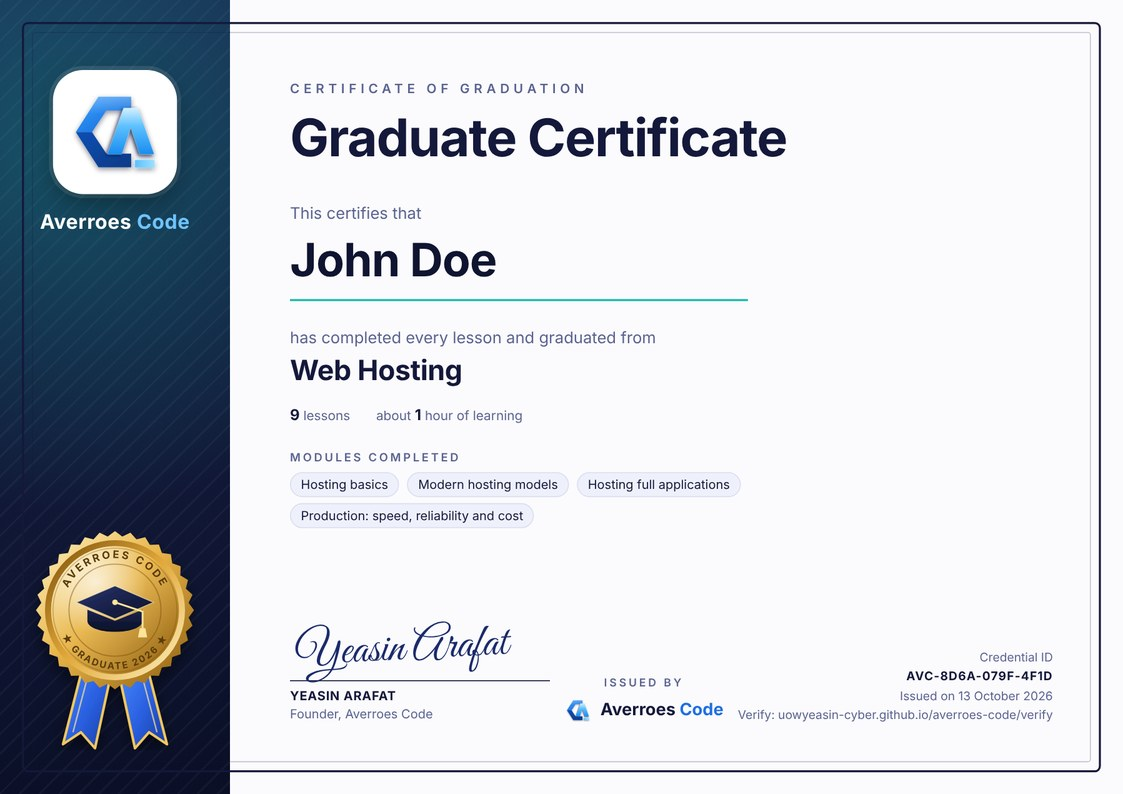
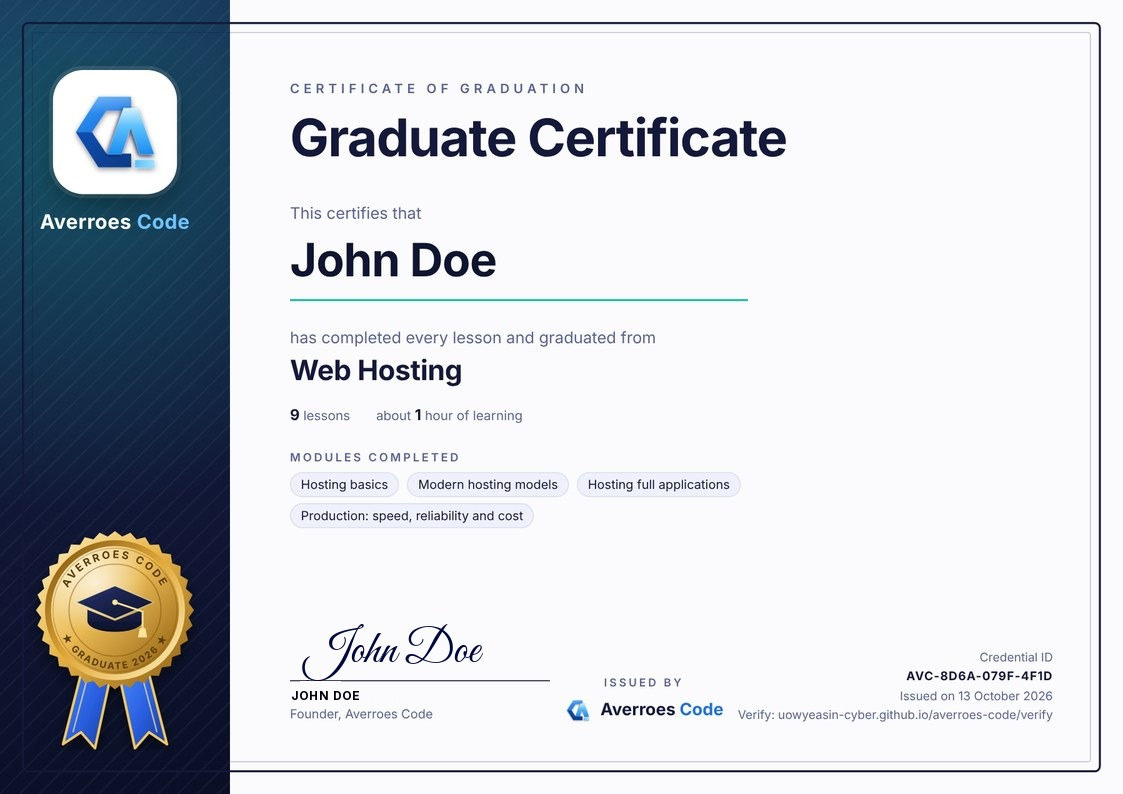
Neutral flag, English lesson shot and John Doe on the sample certificate
Claude-Session: https://claude.ai/code/session_011dpDwMiPRh2nGfezbKmSUN

Changed region(s): [[0.2493, 0.7859, 0.4675, 0.9068]]

diff --git a/averroes-code/index.html b/averroes-code/index.html
@@ -120,7 +120,7 @@ footer .wrap { display: flex; justify-content: space-between; gap: 12px; flex-wr
 </div></section>
 
 <section id="learn"><div class="wrap">
-<div class="split"><div><h3>23 video courses, A to Z</h3><p>Animated lessons with a narrator and captions, in English or Bangla. Each lesson has runnable code, notes, a quiz and a practice exercise checked by the judge. The courses cover languages, web, databases, servers, cloud, DevOps, operating systems, networking, DSA, machine learning, data analytics, AI and BI.</p></div><img class="shot" src="img/14b-video-bangla.jpg" alt="A lesson playing in Bangla"></div>
+<div class="split"><div><h3>23 video courses, A to Z</h3><p>Animated lessons with a narrator and captions, in English or Bangla. Each lesson has runnable code, notes, a quiz and a practice exercise checked by the judge. The courses cover languages, web, databases, servers, cloud, DevOps, operating systems, networking, DSA, machine learning, data analytics, AI and BI.</p></div><img class="shot" src="img/14-video.jpg" alt="A lesson playing in Bangla"></div>
 <div class="split rev"><div><h3>Unlimited practice and live contests</h3><p>New problems are created every time, by topic and level. Live contests show a top-10 board and your position in real time, and tournaments go from Qualifier to Final.</p></div><img class="shot" src="img/12-contest.jpg" alt="A live contest"></div>
 <div class="split"><div><h3>Certificates and 3D awards</h3><p>Earn a medal shaped for each topic at 25%, 50%, 75% and 100%, a certificate for every module, and a Graduate Certificate when you finish a course. Add them to LinkedIn or share on Facebook and X.</p></div><img class="shot" src="img/medals-all.jpg" alt="Topic medals"></div>
 <div class="split rev"><div><h3>Signed and shareable</h3><p>Each certificate has a unique ID and the founder's signature, and is ready to save as an image or PDF.</p></div><img class="shot" src="img/grad.jpg" alt="Graduate certificate"></div>
